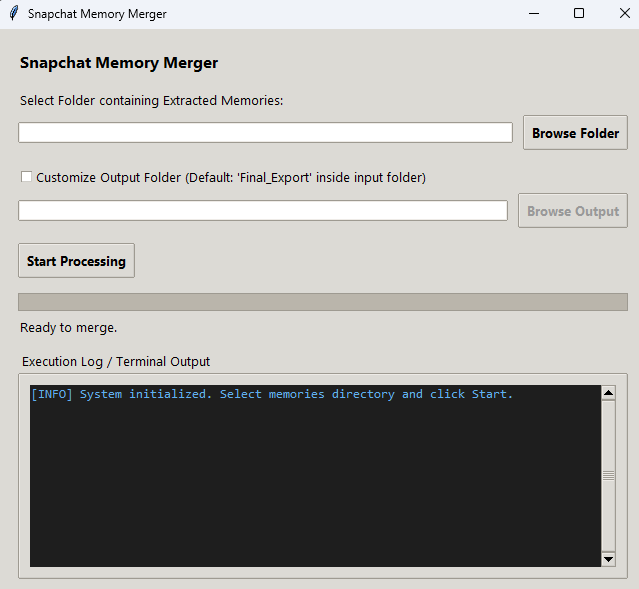
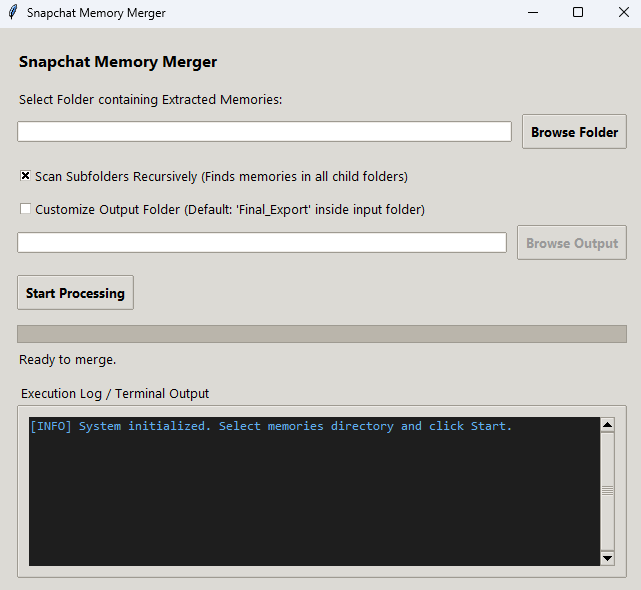
Update README.md with new features

diff --git a/snap_merger.py b/snap_merger.py
@@ -58,6 +58,7 @@ class SnapMergerApp:
         self.folder_path = tk.StringVar()
         self.output_folder_path = tk.StringVar()
         self.custom_output_enabled = tk.BooleanVar(value=False)
+        self.recursive_scan_enabled = tk.BooleanVar(value=True)
         self.progress_var = tk.DoubleVar()
         self.settings_file = "settings.json"
         self.last_input_dir = "/"
@@ -85,6 +86,7 @@ class SnapMergerApp:
                     settings = json.load(f)
                     self.last_input_dir = settings.get("last_input_dir", "/")
                     self.last_output_dir = settings.get("last_output_dir", "/")
+                    self.recursive_scan_enabled.set(settings.get("recursive_scan_enabled", True))
         except Exception:
             pass
 
@@ -92,7 +94,8 @@ class SnapMergerApp:
         try:
             settings = {
                 "last_input_dir": self.last_input_dir,
-                "last_output_dir": self.last_output_dir
+                "last_output_dir": self.last_output_dir,
+                "recursive_scan_enabled": self.recursive_scan_enabled.get()
             }
             with open(self.settings_file, "w") as f:
                 json.dump(settings, f)
@@ -120,6 +123,17 @@ class SnapMergerApp:
         
         self.browse_btn = ttk.Button(path_frame, text="Browse Folder", command=self.browse_folder)
         self.browse_btn.pack(side=tk.RIGHT)
+
+        # Recursive Checkbox
+        recursive_frame = ttk.Frame(frame)
+        recursive_frame.pack(fill=tk.X, pady=(0, 10))
+        self.recursive_check = ttk.Checkbutton(
+            recursive_frame,
+            text="Scan Subfolders Recursively (Finds memories in all child folders)",
+            variable=self.recursive_scan_enabled,
+            command=self.save_settings
+        )
+        self.recursive_check.pack(side=tk.LEFT)
 
         # Output Folder Selection Frame
         output_option_frame = ttk.Frame(frame)
@@ -237,6 +251,7 @@ class SnapMergerApp:
         self.start_button.config(state=tk.DISABLED)
         self.browse_btn.config(state=tk.DISABLED)
         self.output_check.config(state=tk.DISABLED)
+        self.recursive_check.config(state=tk.DISABLED)
         self.browse_output_btn.config(state=tk.DISABLED)
         self.progress_var.set(0)
         self.status_label.config(text="Scanning directory...")
@@ -269,7 +284,21 @@ class SnapMergerApp:
                 self.log(f"Created output folder: {output_folder}", "success")
 
             # 1. Directory Scanning
-            media_files = [f for f in os.listdir(folder) if f.lower().endswith(('.jpg', '.jpeg', '.mp4'))]
+            media_files = []
+            if self.recursive_scan_enabled.get():
+                for root_dir, dirs, files in os.walk(folder):
+                    # Skip the output folder if it is within the scanned directory
+                    if os.path.abspath(output_folder) == os.path.abspath(root_dir):
+                        continue
+                    if "Final_Export" in dirs:
+                        dirs.remove("Final_Export")
+                        
+                    for f in files:
+                        if f.lower().endswith(('.jpg', '.jpeg', '.mp4')):
+                            media_files.append(os.path.join(root_dir, f))
+            else:
+                media_files = [os.path.join(folder, f) for f in os.listdir(folder) if f.lower().endswith(('.jpg', '.jpeg', '.mp4'))]
+                
             total_files = len(media_files)
             
             if total_files == 0:
@@ -280,10 +309,11 @@ class SnapMergerApp:
             merged_count = 0
             copied_count = 0
 
-            for i, filename in enumerate(media_files):
+            for i, filepath in enumerate(media_files):
                 self.root.after(0, self.update_status, i + 1, total_files)
                 
-                filepath = os.path.join(folder, filename)
+                dir_name = os.path.dirname(filepath)
+                filename = os.path.basename(filepath)
                 name, ext = os.path.splitext(filename)
                 
                 has_overlay = False
@@ -293,7 +323,7 @@ class SnapMergerApp:
                 
                 if is_main:
                     overlay_filename = f"{base_name}-overlay.png"
-                    overlay_path = os.path.join(folder, overlay_filename)
+                    overlay_path = os.path.join(dir_name, overlay_filename)
                     if os.path.exists(overlay_path):
                         has_overlay = True
 
@@ -387,6 +417,7 @@ class SnapMergerApp:
         self.start_button.config(state=tk.NORMAL)
         self.browse_btn.config(state=tk.NORMAL)
         self.output_check.config(state=tk.NORMAL)
+        self.recursive_check.config(state=tk.NORMAL)
         if self.custom_output_enabled.get():
             self.browse_output_btn.config(state=tk.NORMAL)
         self.progress_var.set(100)

diff --git a/README.md b/README.md
@@ -8,18 +8,22 @@ When you export memories from Snapchat, overlays (like text, drawings, and stick
 
 ## Features
 
-- **Automatic Pair Matching:** Automatically matches main images (`*-main.jpg`/`*.mp4`) with their overlay files (`*-overlay.png`).
+- **Automatic Pair Matching:** Automatically matches main images (`*-main.jpg`/`*-main.mp4`) with their overlay files (`*-overlay.png`).
 - **Image Merging:** Combines base images and overlays using `Pillow` while preserving EXIF metadata.
-- **Video Merging:** Overlays drawings and text on videos using `FFmpeg`.
+- **Video Merging:** Overlays drawings and text on videos using `FFmpeg`. Handles silent videos cleanly and scales overlays to fit perfectly.
 - **Timestamp Preservation:** Retains file access, modification, and creation timestamps (Windows-specific using `pywin32`) from the original files on the merged results.
-- **Graphical User Interface:** Simple Tkinter-based GUI with progress tracking.
+- **Recursive Scanning:** Easily process multiple split Snapchat export folders at once by selecting their parent folder and scanning all subfolders automatically.
+- **Customizable Output:** Choose exactly where you want the merged files to be saved, or use the default `Final_Export` folder.
+- **Smart Directory Memory:** The app remembers your last used input and output directories independently across sessions for a faster workflow.
+- **Graphical User Interface:** Simple Tkinter-based GUI with progress tracking and an interactive terminal log.
 
 ## Prerequisites
 
-1. **Python 3.x**
-2. **FFmpeg** (Required for merging video overlays):
-   - FFmpeg must be installed and added to your system's PATH.
-   - If FFmpeg is not installed, video merging will fail and fallback to copying the original video without the overlay.
+- **Python 3.x**
+- **FFmpeg** (Required for video merging). You can install it quickly using:
+  - **Windows (PowerShell as Admin):** `winget install ffmpeg` (Restart your terminal/IDE after)
+  - **macOS:** `brew install ffmpeg`
+  - **Linux:** `sudo apt install ffmpeg`
 
 ## Installation
 
@@ -35,6 +39,9 @@ When you export memories from Snapchat, overlays (like text, drawings, and stick
    ```bash
    python snap_merger.py
    ```
-2. Click **Browse** and select the folder containing your extracted Snapchat memories.
-3. Click **Start Processing**.
-4. The merged and processed files will be output to a folder named `Final_Export` inside your selected memories directory.
+2. Click **Browse Folder** and select the folder containing your extracted Snapchat memories (or a parent folder containing multiple export parts).
+3. Optionally, check **Scan Subfolders Recursively** to process all child directories at once.
+4. Optionally, check **Customize Output Folder** to choose a specific destination for the merged memories.
+5. Click **Start Processing**.
+6. Monitor the process in the terminal log output at the bottom.
+7. The merged and processed files will be output to your specified destination or a `Final_Export` folder by default.